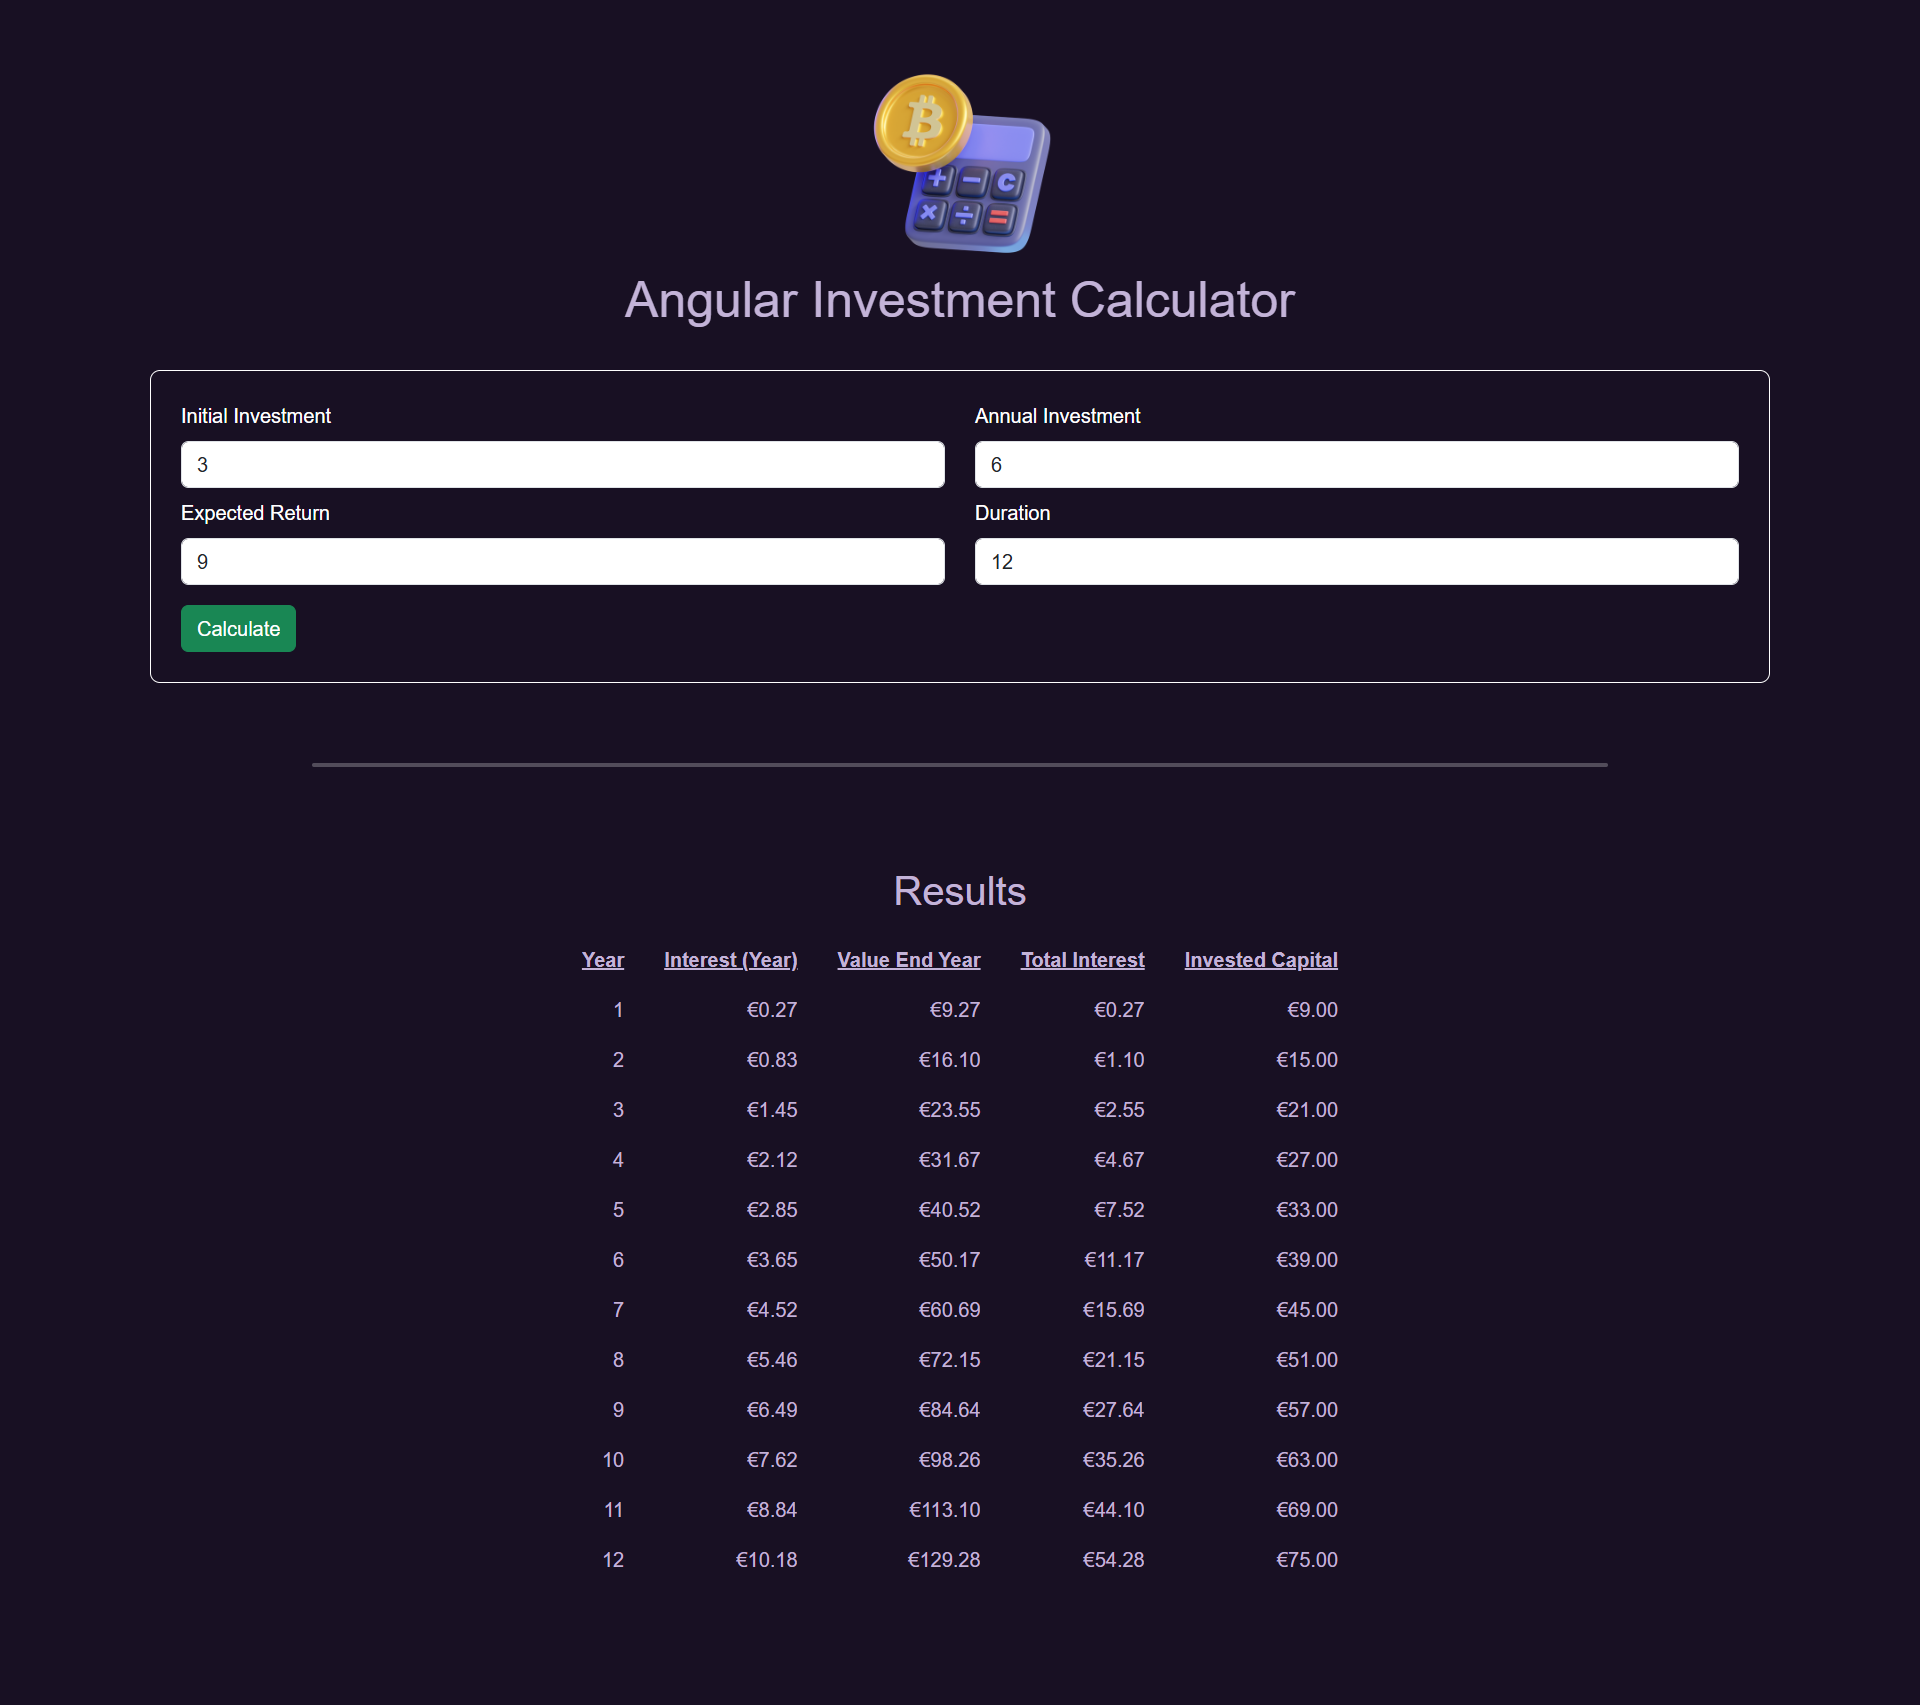
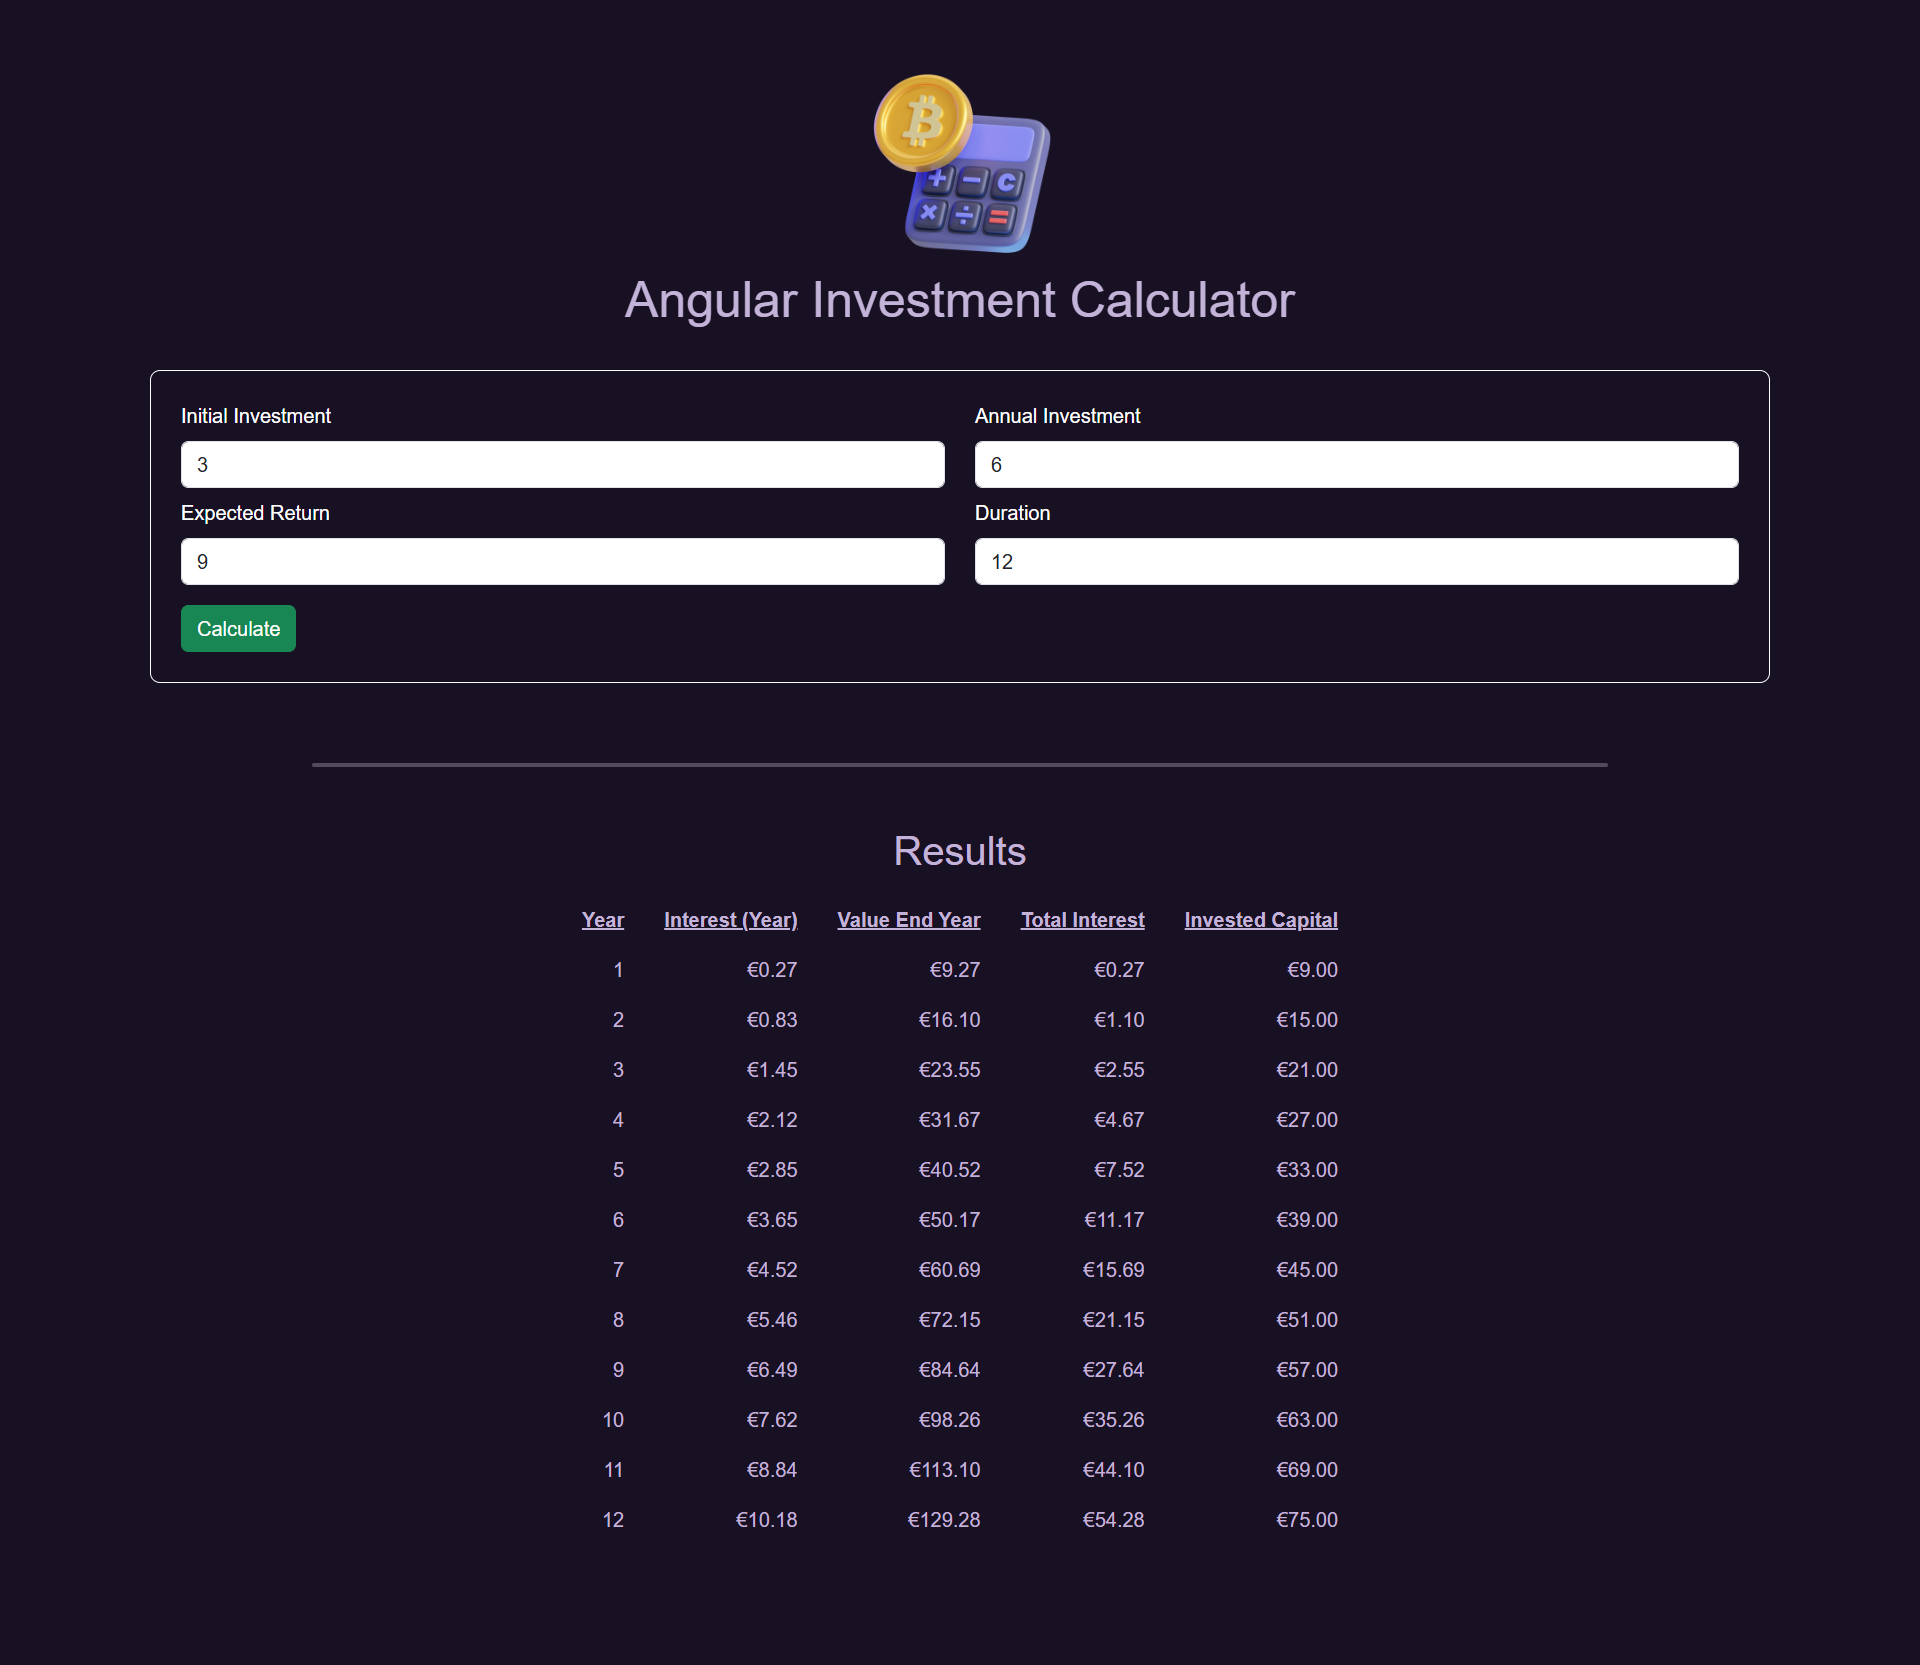
readmeok

Changed region(s): [[0.0938, 0.0312, 0.9062, 0.406], [0.3125, 0.4997, 0.7188, 0.9369], [0.1562, 0.4372, 0.8438, 0.4685]]

diff --git a/src/app/investment-feature/investment-results/investment-results.component.html b/src/app/investment-feature/investment-results/investment-results.component.html
@@ -4,7 +4,7 @@
   <h3 class="text-center my-4">Nothing to calculate.</h3>
 }@else{
 
-  <div class="  d-flex flex-column justify-content-center align-items-center" style="margin: 4rem 0 6rem 0;">
+  <div class="  d-flex flex-column justify-content-center align-items-center" style="margin: 2rem 0 6rem 0;">
     <h2 class="mb-3">Results</h2>
     <table>
       <thead>
